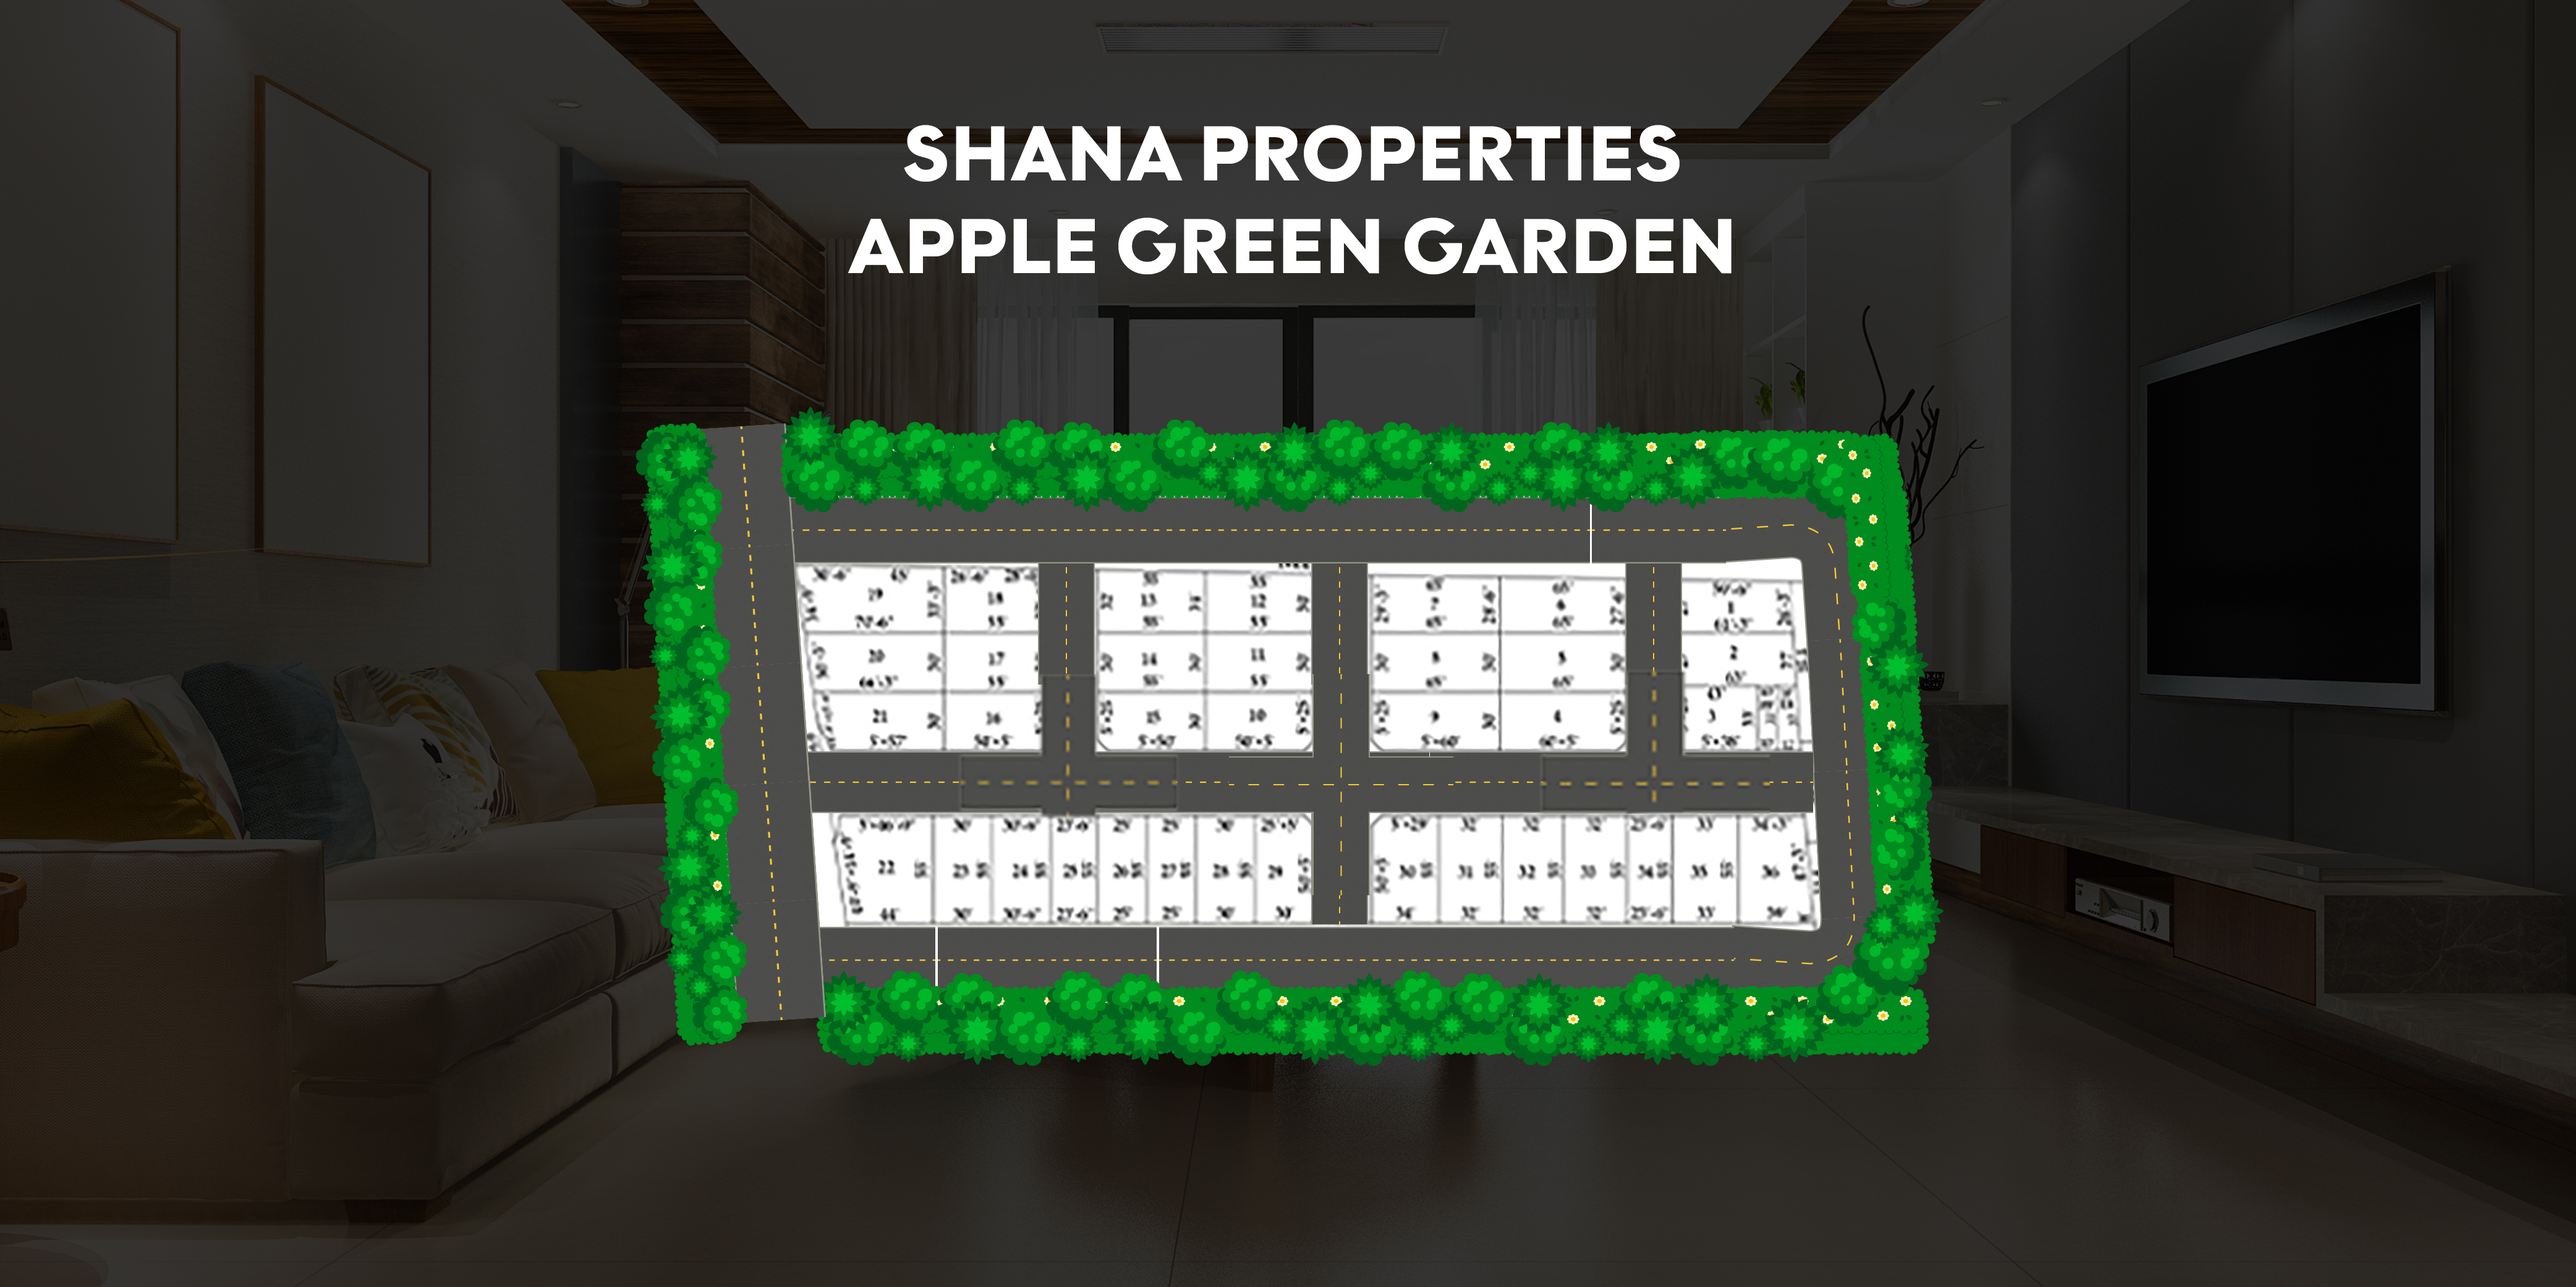
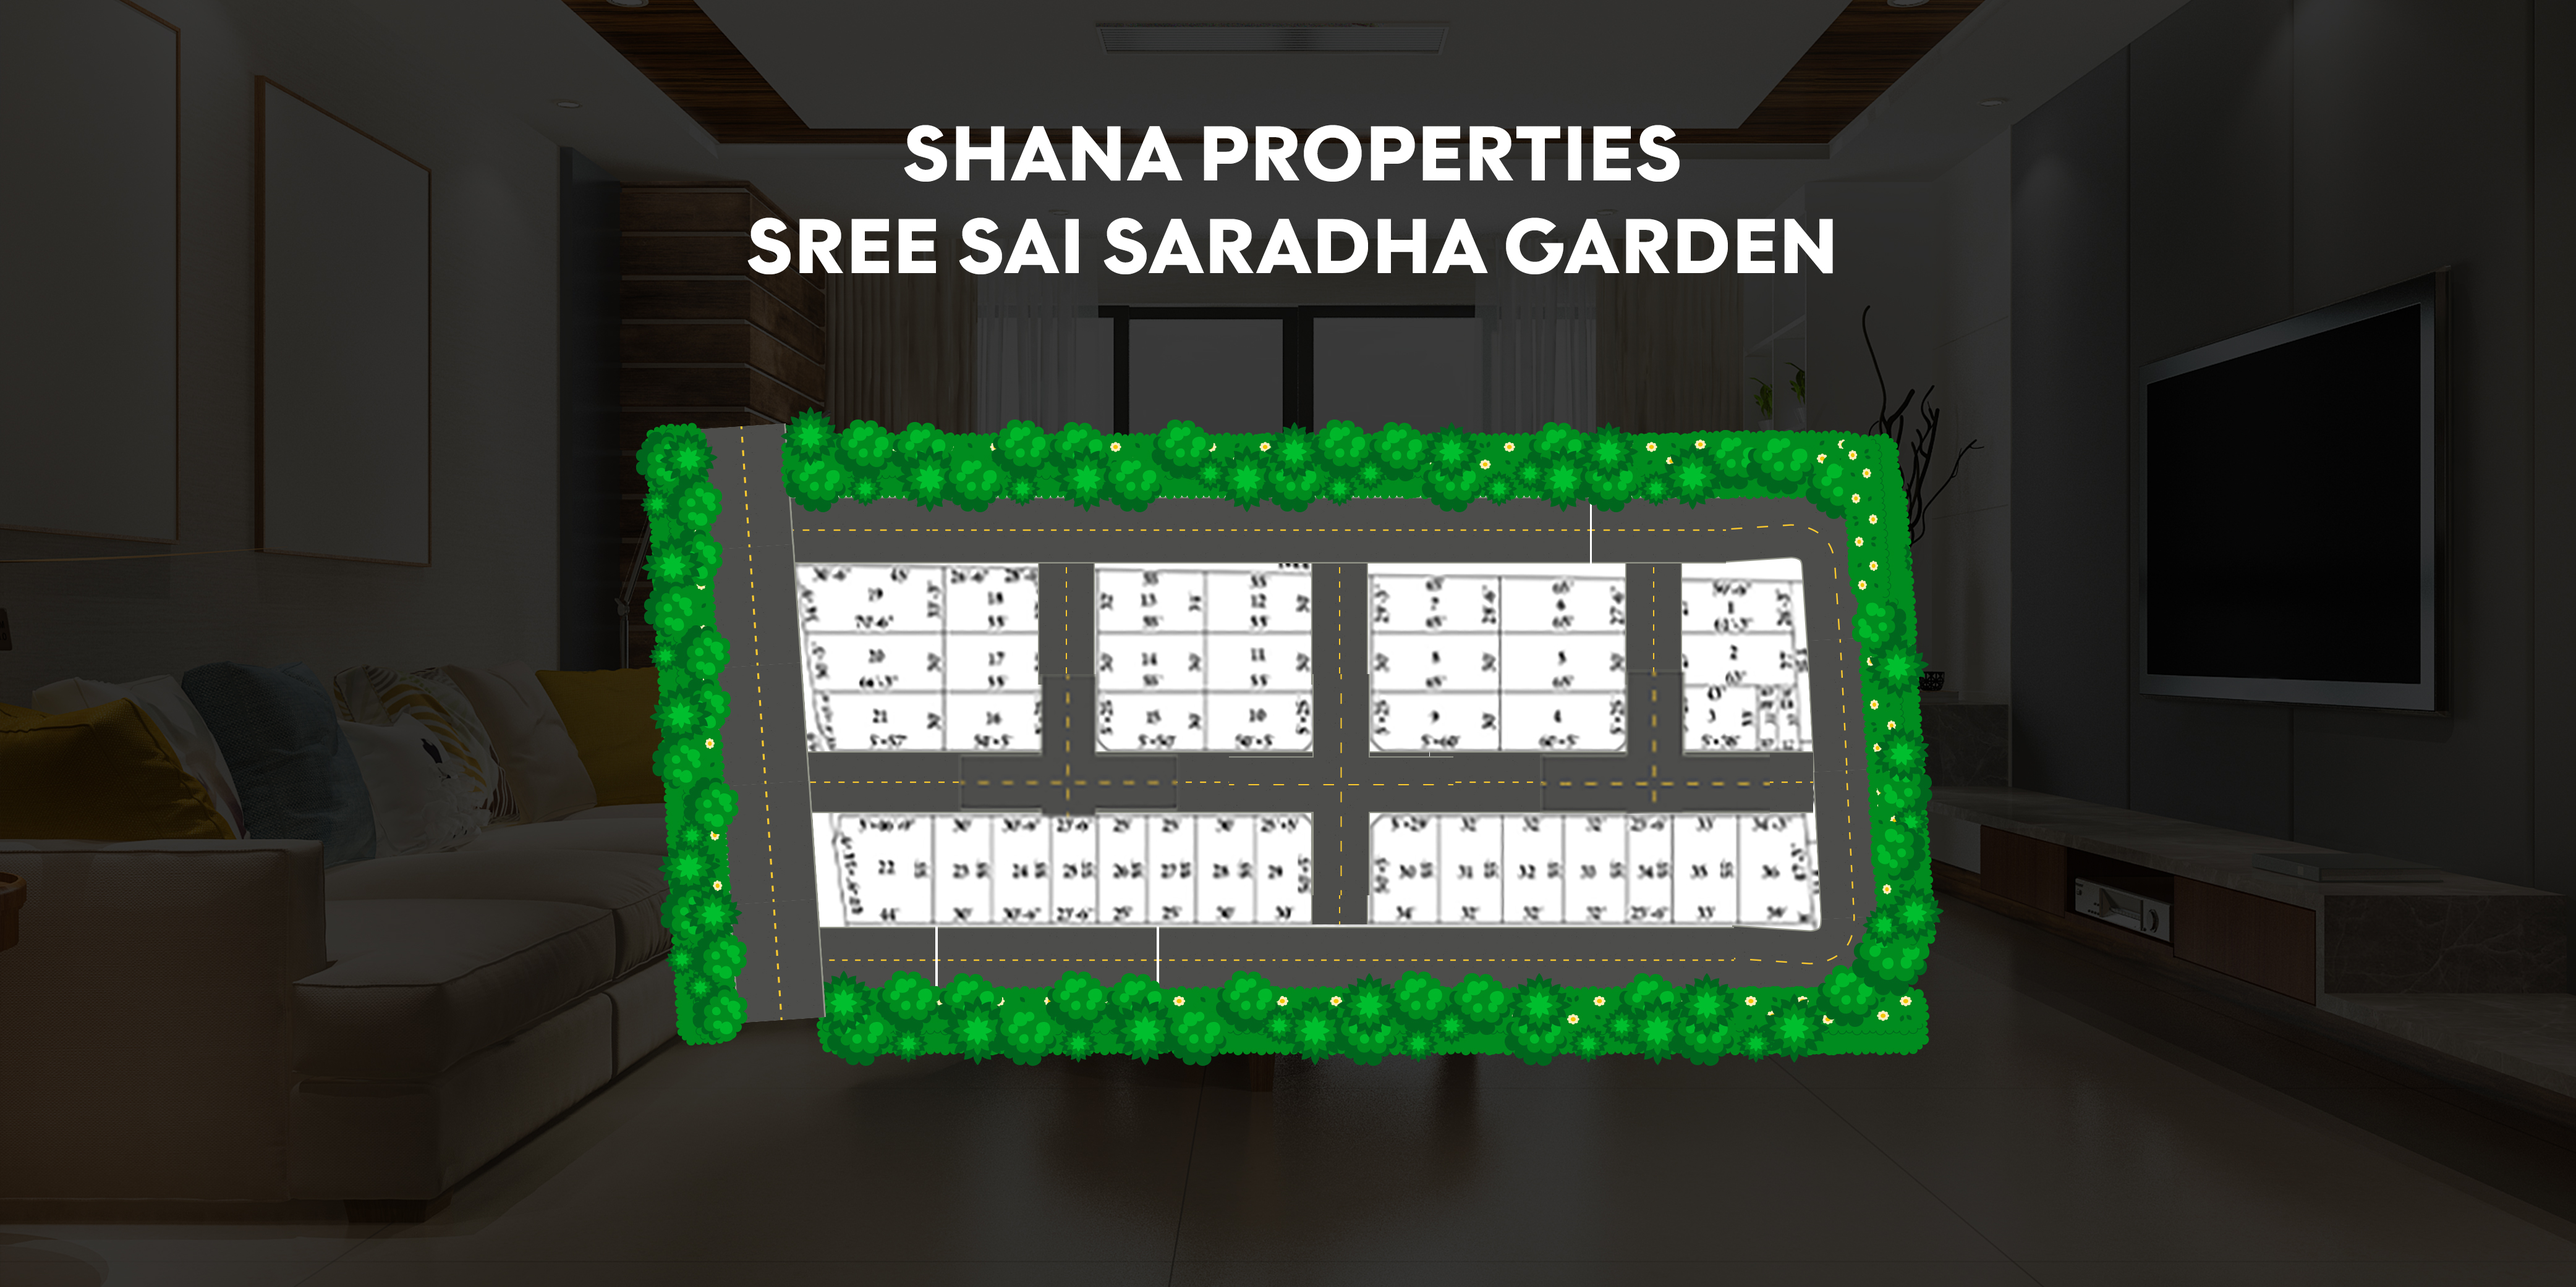
Add files via upload

Changed region(s): [[0.2808, 0.156, 0.7175, 0.2184]]

diff --git a/index.html b/index.html
@@ -50,7 +50,7 @@
                <div class="position-relative">
                   <div class="pb-5 px-3 pt-3 px-lg-0 py-lg-0">
                      <div class="d-block d-lg-flex d-md-flex justify-content-around text-center mt-lg-4 mt-2">
-                     <h2 style="font-size: 50px; color:red;">Apple Green Garden</h2>   
+                     <h2 style="font-size: 50px; color:red;">Sai Saradha</h2>   
                      </div>
                      <div class="text-center mb-5">
                         <h3 class="display-6 fw-bold text-666 mobile-font">Budget friendly 1 BHK and 2 BHK Independent Villas </h3>
@@ -65,13 +65,13 @@
                   </div>
                   <div class="d-mob-none z-index-1 position-relative d-flex justify-content-center mx-4" style="display: flex; justify-content: center; align-items: center;">
                      <div class="mt-3 mx-2">
-                       <img class="w-100 rounded-4" src="image/eb6e7ad2d3edfa9775bf88ecae06c67f.jpg" alt="" style="width: 600px; height: 350px; object-fit: cover; object-position: center;">
-                     </div>
-                     <div class="mt-5 mx-2">
-                       <img class="w-100 rounded-4" src="image/Exterior design.jpg" alt="" style="width: 600px; height: 300px; object-fit: cover; object-position: center;">
+                       <img class=" rounded-4" src="image/eb6e7ad2d3edfa9775bf88ecae06c67f.jpg" alt="" style="width: 400px; height: 350px;    ">
                      </div>
                      <div class="mt-3 mx-2">
-                       <img class="w-100 rounded-4" src="image/Builder Floor.jpg" alt="" style="width: 600px; height: 350px; object-fit: cover; object-position: center;">
+                       <img class=" rounded-4" src="image/Exterior design.jpg" alt="" style="width:400px; height: 350px; ">
+                     </div>
+                     <div class="mt-3 mx-2">
+                       <img class="rounded-4" src="image/Builder Floor.jpg" alt="" style="width: 400px; height: 350px;">
                      </div>
                    </div>
                    
@@ -148,7 +148,7 @@
                      </div>
                   </div>
                </div>
-               <div class="col-lg-3 col-md-6 mb-md-3 mt-lg-4 mb-lg-0 mb-3">
+               <div class="col-lg-3 col-md-6 mb-md-3 mt-lg-2 mb-lg-0 mb-3">
                   <div class="move-up bg-666 text-white p-4 rounded-4">
                      <div class="row align-items-center">
                         <div class="col-4 px-3">
@@ -161,7 +161,7 @@
                      </div>
                   </div>
                </div>
-               <div class="col-lg-3 col-md-6 mb-md-3 mt-lg-4 mb-lg-0 mb-3">
+               <div class="col-lg-3 col-md-6 mb-md-3 mt-lg-2 mb-lg-0 mb-3">
                   <div class="move-up bg-666 text-white p-4 rounded-4">
                      <div class="row align-items-center">
                         <div class="col-4 px-3">
@@ -241,7 +241,7 @@
          <div class="container">
             <div class="py-lg-4">
                <div class="text-center">
-                  <h2 class="mb-1 letter-space2px fw-bold">Our <span class="text-666 text-uppercase"> FLOOR PLAN </span></h2>
+                  <h2 class="mb-1 letter-space2px fw-bold">Our <span class="text-666 text-uppercase">Plot Layout</span></h2>
                   <div class="border-img mb-4"></div>
                </div>
                <div>
@@ -910,7 +910,7 @@
          <div class="container pt-lg-4 pb-lg-0 px-lg-0 p-4 pb-0 border-bottom border-secondary">
             <div class="mb-3 border-bottom border-light">
                <div class="text-center mb-3">
-                  <h2 style="font-size: 50px; color:white;">Apple Green Garden</h2>  
+                  <h2 style="font-size: 50px; color:white;">Sai Saradha</h2>  
                </div>
                <!-- <div class="d-flex justify-content-center">
                   <ul class="d-flex mb-4 ps-0 list-unstyled justify-content-lg-start justify-content-md-start justify-content-center">
